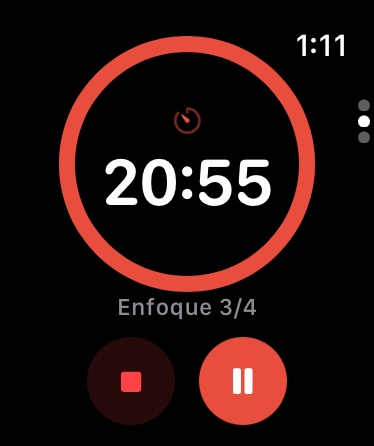
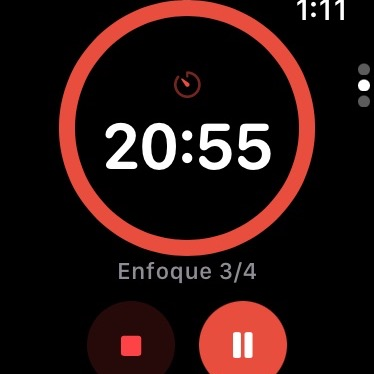
fix(guides): judge-2 visual round — portrait figures, square watch frames, caption accuracy
- Portrait captures render at natural size like the existing manuals:
  iPhone figures use figure.half, watch figures figure.third (full-width
  414px sources were upscaled 2.1x on desktop and looked blurry)
- Watch captures square-cropped (374x374) so the round DeviceFrame is a
  perfect circle instead of an ellipse with clipped corners
- Captions match what the screenshots actually show (card list with
  energy bars and Hoy chip, Más hub, live session on the wrist)
- Drop now-unreferenced hero/showcase captures

diff --git a/landing/static/guides/iphone.html b/landing/static/guides/iphone.html
@@ -91,7 +91,7 @@
           </article>
         </div>
 
-        <figure>
+        <figure class="half">
           <img class="screenshot" src="/guides/img/iphone-01-foco-idle.jpg" alt="Pepinillo para iPhone en la pestaña Foco, listo para iniciar" loading="lazy">
           <figcaption>La app al abrir Pepinillo: anillo de foco, modos arriba y el botón <em>Iniciar</em> siempre en el mismo lugar.</figcaption>
         </figure>
@@ -130,7 +130,7 @@
         <h2>3. Los cuatro modos de foco</h2>
         <p class="section-lead">El segmented superior de <em>Foco</em> cambia de color según el modo: rojo pomodoro, azul flowtime, violeta bloques, verde cronómetro.</p>
 
-        <figure>
+        <figure class="half">
           <img class="screenshot" src="/guides/img/iphone-02-modos.jpg" alt="Los cuatro modos de foco en el segmented de la app iPhone" loading="lazy">
           <figcaption>Los cuatro modos: cada uno tiñe el anillo y el botón principal con su color.</figcaption>
         </figure>
@@ -162,7 +162,7 @@
         <h2>4. Durante la sesión: tarea, sonido y control</h2>
         <p class="section-lead">El escenario de foco se tiñe del color del modo y desaparece todo lo que no necesitás.</p>
 
-        <figure>
+        <figure class="half">
           <img class="screenshot" src="/guides/img/iphone-03-foco-corriendo.jpg" alt="Sesión de foco corriendo con tarea vinculada en iPhone" loading="lazy">
           <figcaption>Sesión corriendo: el segmented se vacía, el icono del modo respira y el arco crece en sentido horario.</figcaption>
         </figure>
@@ -193,9 +193,9 @@
         <h2>5. Plan: tareas, energía e Inspector</h2>
         <p class="section-lead">El Plan replica la tabla de Pepinillo para Mac: filas compactas, chips de filtro arriba y un Inspector para el detalle de cada tarea.</p>
 
-        <figure>
+        <figure class="half">
           <img class="screenshot" src="/guides/img/iphone-04-plan.jpg" alt="Plan con tabla de tareas, filtros y Nueva tarea en iPhone" loading="lazy">
-          <figcaption>La tabla del Plan: círculos de completado, flechas de prioridad (↑ Alta, — Media, ↓ Baja), energía con punto de color, pomodoros estimados y fecha límite en rojo si venció.</figcaption>
+          <figcaption>El Plan en iPhone: lista de tarjetas con círculo de completado, barra de color por energía, chip de <em>Hoy</em> y el acceso al Inspector en cada fila.</figcaption>
         </figure>
 
         <div class="grid-2">
@@ -225,7 +225,7 @@
         <h2>6. Hoy, estadísticas y rachas</h2>
         <p class="section-lead">Dos vistas para entender tus patrones: el Panel (el día) y Estadísticas (el histórico).</p>
 
-        <figure>
+        <figure class="half">
           <img class="screenshot" src="/guides/img/iphone-05-panel.jpg" alt="Panel del día con racha, minutos y sesiones en iPhone" loading="lazy">
           <figcaption>El Panel: <strong>Hoy</strong> con minutos de foco, sesiones completadas y la racha de días; debajo, la gráfica de la semana con el mejor día marcado.</figcaption>
         </figure>
@@ -319,9 +319,9 @@
         <h2>9. Cuenta, Pepinillo+ y ajustes</h2>
         <p class="section-lead">Todo vive en <em>Más</em>: la cuenta es opcional y los ajustes son cortos a propósito.</p>
 
-        <figure>
+        <figure class="half">
           <img class="screenshot" src="/guides/img/iphone-06-ajustes.jpg" alt="Ajustes de Pepinillo en iPhone con pomodoro, duraciones y cuenta" loading="lazy">
-          <figcaption>Ajustes: pomodoro y descanso, auto-inicios, sonidos, apariencia (sistema, claro, oscuro) y cuenta.</figcaption>
+          <figcaption>La pantalla <em>Más</em>: perfil, Suscripción, Ajustes, Exportar datos, Ayuda y Acerca de — la puerta a todo lo no-foco.</figcaption>
         </figure>
 
         <div class="grid-2">

diff --git a/landing/static/guides/watchos.html b/landing/static/guides/watchos.html
@@ -79,9 +79,9 @@
           </article>
         </div>
 
-        <figure>
+        <figure class="third">
           <img class="screenshot" src="/guides/img/watchos-01-timer.jpg" alt="Pepinillo para Apple Watch con el temporizador de foco corriendo" loading="lazy">
-          <figcaption>El temporizador de foco en la muñeca: anillo de progreso, tiempo restante y tarea vinculada, legible de un vistazo.</figcaption>
+          <figcaption>Una sesión en curso desde la muñeca: anillo de progreso, fase actual y los botones de control, todo legible de un vistazo.</figcaption>
         </figure>
 
         <div class="callout"><strong>Companion, no reemplazo.</strong> La app de Watch está pensada para operar la sesión — arrancar, pausar, terminar — no para planificar: el Plan completo vive en el iPhone.</div>
@@ -120,7 +120,7 @@
         <h2>3. Tareas en la muñeca</h2>
         <p class="section-lead">Tu día planificado cabe entero en la pantalla redonda: lista compacta, marcada por energía.</p>
 
-        <figure>
+        <figure class="third">
           <img class="screenshot" src="/guides/img/watchos-02-tareas.jpg" alt="Lista de tareas del día en Pepinillo para Apple Watch" loading="lazy">
           <figcaption>La lista de tareas del día: tocá una para vincularla a la próxima sesión o marcarla completada.</figcaption>
         </figure>
